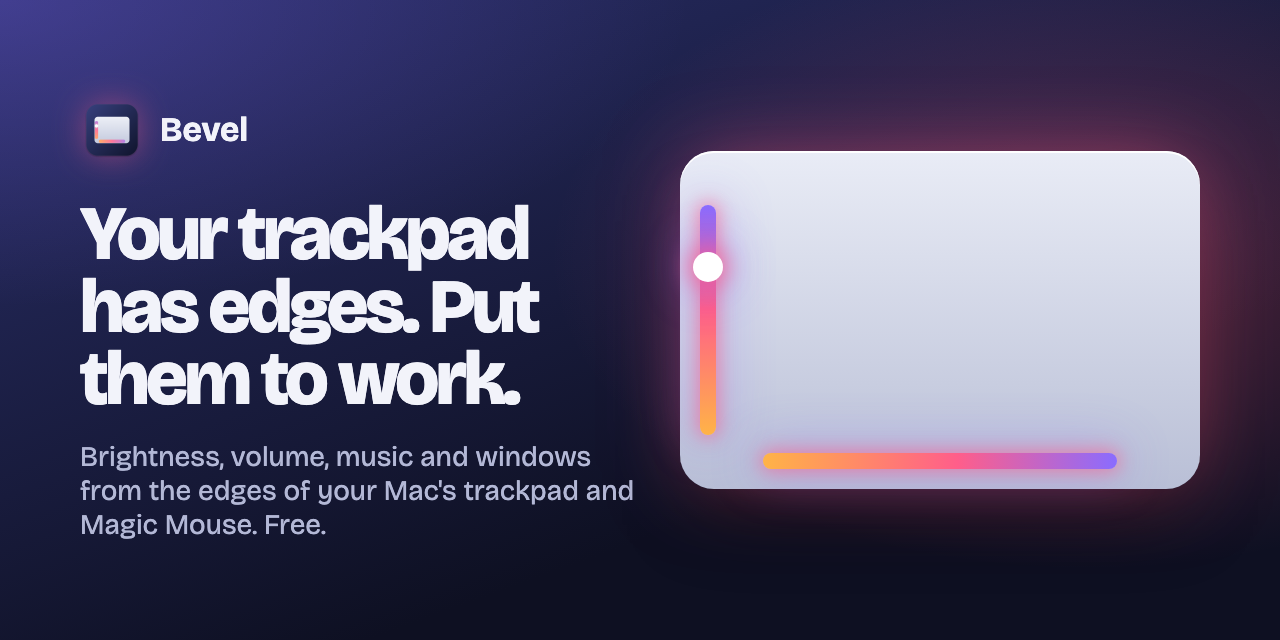
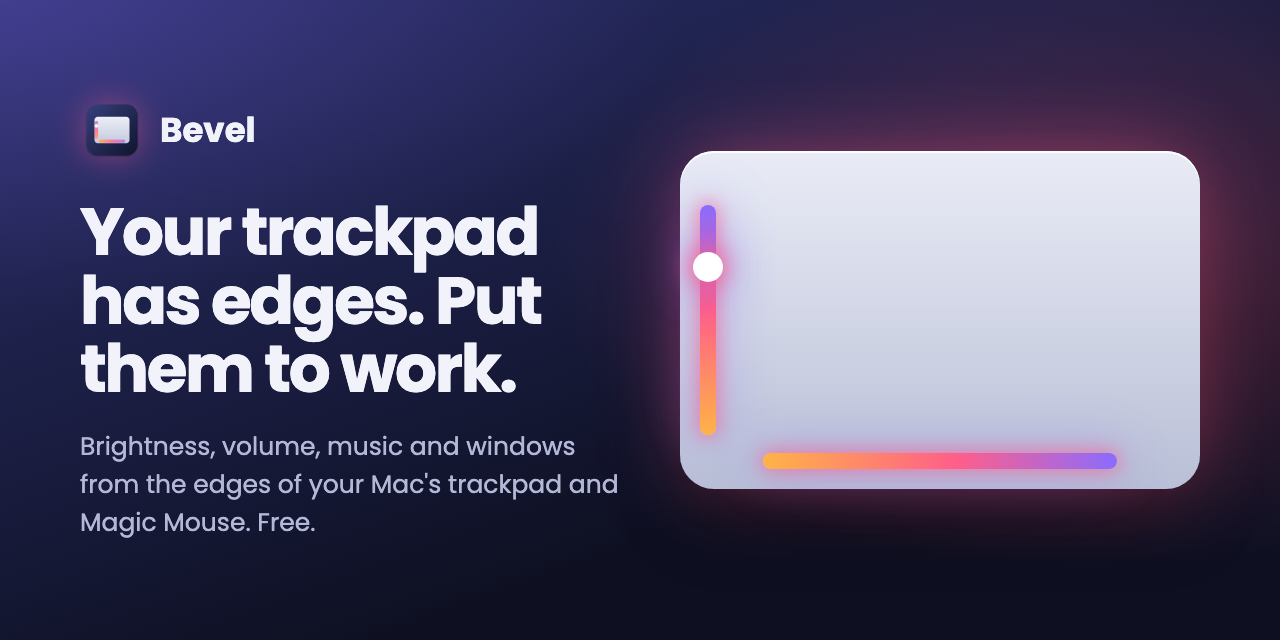
Set the site in Poppins
Headings at 700 with slightly looser spacing and smaller sizes to suit
Poppins' wider letters; the social card follows.

Changed region(s): [[0.0625, 0.3125, 0.4375, 0.6562], [0.0625, 0.6875, 0.5, 0.8438], [0.125, 0.1875, 0.2188, 0.2188]]

diff --git a/index.html b/index.html
@@ -19,7 +19,7 @@
 <link rel="apple-touch-icon" href="icon.png">
 <link rel="preconnect" href="https://fonts.googleapis.com">
 <link rel="preconnect" href="https://fonts.gstatic.com" crossorigin>
-<link href="https://fonts.googleapis.com/css2?family=Bricolage+Grotesque:opsz,wght@12..96,400..800&display=swap" rel="stylesheet">
+<link href="https://fonts.googleapis.com/css2?family=Poppins:wght@400;500;600;700&display=swap" rel="stylesheet">
 <style>
 /* The app's palette: midnight surfaces, one amber-rose-violet edge gradient, a white touch with a glow. */
 :root {
@@ -55,10 +55,9 @@ body {
     radial-gradient(50rem 36rem at -10% 30rem, rgba(255,94,138,.10), transparent 70%),
     var(--night);
   color: var(--text);
-  font-family: "Bricolage Grotesque", system-ui, sans-serif;
-  font-size: 1.0625rem;
-  line-height: 1.55;
-  font-optical-sizing: auto;
+  font-family: "Poppins", system-ui, sans-serif;
+  font-size: 1rem;
+  line-height: 1.65;
   overflow-x: hidden;
 }
 a { color: inherit; }
@@ -113,9 +112,9 @@ button { font: inherit; color: inherit; }
 .top nav a:hover { color: var(--text); }
 .hero-head { text-align: center; margin: 56px auto 0; max-width: 860px; }
 h1 {
-  font-size: clamp(2.8rem, 7.6vw, 5.8rem);
-  line-height: .94; letter-spacing: -.045em; font-weight: 800; margin: 0;
-  font-variation-settings: "opsz" 96; text-wrap: balance;
+  font-size: clamp(2.5rem, 6.8vw, 5.2rem);
+  line-height: 1.02; letter-spacing: -.035em; font-weight: 700; margin: 0;
+  text-wrap: balance;
 }
 .neon-rule { display: block; width: 120px; height: 5px; border-radius: 3px; margin: 26px auto 0; background: var(--neon); box-shadow: var(--glow); position: relative; }
 .neon-rule::after { content: ""; position: absolute; right: -4px; top: 50%; width: 11px; height: 11px; margin-top: -5.5px; border-radius: 50%; background: #fff; box-shadow: 0 0 10px 3px rgba(255,255,255,.85); }
@@ -125,7 +124,7 @@ h1 {
 @media (min-width: 1100px) {
   .hero-main { display: grid; grid-template-columns: minmax(0, .85fr) minmax(0, 1.15fr); gap: 56px; align-items: center; margin-top: 44px; }
   .hero-head { text-align: left; margin: 0; }
-  h1 { font-size: clamp(3.5rem, 5.3vw, 5.2rem); }
+  h1 { font-size: clamp(2.8rem, 3.9vw, 3.9rem); }
   .neon-rule, .lede { margin-left: 0; }
   .hero-head .ctas { justify-content: flex-start; }
   .hero .stage { margin-top: 0; }
@@ -301,7 +300,7 @@ h1 {
 .tries { display: flex; flex-wrap: wrap; justify-content: center; gap: 8px; margin: 0; padding: 0; list-style: none; max-width: 760px; }
 .tries li {
   display: inline-flex; align-items: center; gap: 8px; padding: 8px 14px 8px 10px; border-radius: 999px;
-  font-size: .93rem; color: var(--text-soft); box-shadow: inset 0 0 0 1.5px rgba(233,236,246,.14);
+  font-size: .86rem; color: var(--text-soft); box-shadow: inset 0 0 0 1.5px rgba(233,236,246,.14);
   transition: color .3s ease, background-color .3s ease, box-shadow .3s ease;
 }
 .tries li::before { content: ""; width: 18px; height: 18px; border-radius: 50%; flex: none; box-shadow: inset 0 0 0 1.5px rgba(233,236,246,.35); }
@@ -316,8 +315,8 @@ h1 {
 /* Sections */
 section { padding: 112px 0 0; }
 h2 {
-  font-size: clamp(2.1rem, 4.6vw, 3.4rem); line-height: 1.02; letter-spacing: -.035em; font-weight: 800;
-  margin: 0 0 16px; max-width: 17em; font-variation-settings: "opsz" 72; text-wrap: balance;
+  font-size: clamp(1.9rem, 4.2vw, 3rem); line-height: 1.1; letter-spacing: -.03em; font-weight: 700;
+  margin: 0 0 16px; max-width: 17em; text-wrap: balance;
 }
 .sub { color: var(--text-soft); max-width: 38em; margin: 0 0 44px; font-size: 1.15rem; text-wrap: pretty; }
 h3 { font-size: 1.2rem; letter-spacing: -.01em; margin: 0 0 6px; line-height: 1.25; }
@@ -442,7 +441,7 @@ h3 { font-size: 1.2rem; letter-spacing: -.01em; margin: 0 0 6px; line-height: 1.
 .steps li { counter-increment: s; color: var(--text-soft); }
 .steps li::before {
   content: counter(s); display: grid; place-items: center; width: 42px; height: 42px; margin-bottom: 14px;
-  border-radius: 50%; background: var(--neon); color: var(--midnight); font-weight: 800; font-size: 1.1rem; box-shadow: 0 4px 16px rgba(255,94,138,.4);
+  border-radius: 50%; background: var(--neon); color: var(--midnight); font-weight: 700; font-size: 1.05rem; box-shadow: 0 4px 16px rgba(255,94,138,.4);
 }
 .steps b { color: var(--text); }
 .steps a { text-decoration-color: var(--rose); text-underline-offset: 3px; }
@@ -1123,7 +1122,7 @@ footer a:hover { color: var(--text); }
         ctx.arc(ax, ay, rad, 0, Math.PI * 2); ctx.fill();
         ctx.shadowColor = "transparent";
         ctx.fillStyle = s.color === "#ffcc00" ? "#000" : "#fff";
-        ctx.font = `700 ${rad * 1.15}px "Bricolage Grotesque", system-ui, sans-serif`;
+        ctx.font = `700 ${rad * 1.15}px "Poppins", system-ui, sans-serif`;
         ctx.textAlign = "center"; ctx.textBaseline = "middle";
         ctx.fillText(s.n, ax, ay + rad * .05);
       }
